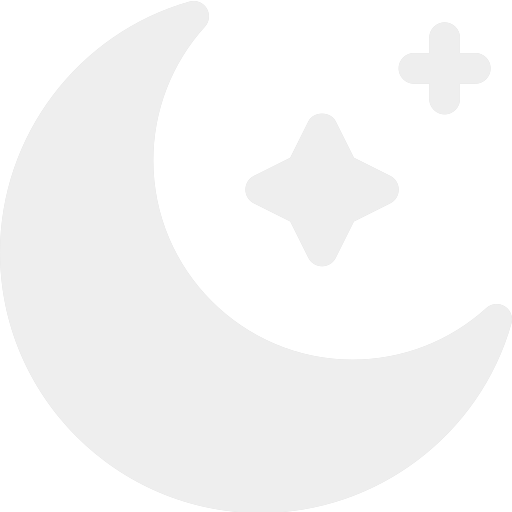
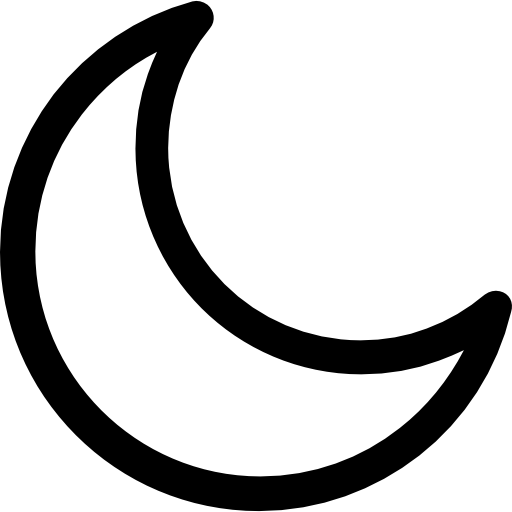
refactor: [Client] Implement dark mode context (#4)

Changed region(s): [[0.0, 0.0, 1.0, 1.0]]

diff --git a/frontend/src/Styles/Pages/LoginPage/_loginPage.module.scss b/frontend/src/Styles/Pages/LoginPage/_loginPage.module.scss
@@ -1,4 +1,4 @@
-@import "../_variable.module";
+@import "../../variable.module";
 
 .background {
   display: flex;
@@ -11,7 +11,8 @@
   min-width: 1080px;
 
   background-color: var(--background-color);
-  background-image: $background-image;
+
+  // background-image: url("../../../Assets/Image/b.png");
   background-size: 100% 100%;
   background-repeat: no-repeat;
 
@@ -28,6 +29,8 @@
 
   .container {
     display: flex;
+    flex-direction: var(--flex-direction);
+
     justify-content: center;
     align-items: center;
 
@@ -40,17 +43,18 @@
       display: flex;
       flex-direction: column;
       justify-content: center;
+      align-items: center;
 
       width: 500px;
       height: 400px;
 
       & .title {
-        font-family: $main-font;
+        font-family: $logo-font;
         font-size: 65px;
 
-        padding: 18px;
+        padding: 5px;
 
-        background: -webkit-linear-gradient(var(--gradient-first), var(--gradient-end));
+        background: -webkit-linear-gradient($gradient-first, $gradient-end);
         -webkit-background-clip: text;
         -webkit-text-fill-color: transparent;
       }
@@ -60,7 +64,6 @@
         font-size: 20px;
 
         padding-left: 23px;
-        margin-bottom: 50px;
 
         color: var(--font-color);
       }

diff --git a/frontend/src/Pages/LoginPage.tsx b/frontend/src/Pages/LoginPage.tsx
@@ -1,21 +1,18 @@
-import styles from "../Styles/Pages/_loginPage.module.scss";
-import variable from "../Styles/_variable.module.scss";
 import LoginForm from "../Components/LoginPage/LoginForm";
+import styles from "../Styles/Pages/LoginPage/_loginPage.module.scss";
 import sunIcon from "../Assets/Image/sun.png";
 import moonIcon from "../Assets/Image/moon.png";
 import { useState } from "react";
+import { useTheme } from "../Contexts/DarkModeContext";
 
 const LoginPage = () => {
-  const [mode, setMode] = useState<boolean>(false);
+  const { isDarkMode, toggleTheme } = useTheme();
 
-  const changeMode = () => {
-    setMode(!mode);
   };
 
   return (
-    <div className={mode ? `${variable.dark} ${styles.background}` : `${styles.background}`}>
-      <img src={mode ? moonIcon : sunIcon} onClick={changeMode} className={styles.mode} />
-      <div className={styles.container}>
+    <div className={isDarkMode ? `${styles.dark} ${styles.background}` : `${styles.background}`}>
+      <img src={isDarkMode ? sunIcon : moonIcon} onClick={toggleTheme} className={styles.mode} />
         <div className={styles.logo_container}>
           <div className={styles.title}>
             <span>CHECKPASS</span>

diff --git a/frontend/src/Styles/_variable.module.scss b/frontend/src/Styles/_variable.module.scss
@@ -8,9 +8,17 @@
   --main-color: #3478f6;
 
   --border-color: #dddfe2;
+  --font-color: black;
 
-  --gradient-first: #015eea;
-  --gradient-end: #00c0fa;
+  --form-font-color: #242424;
+
+  --form-width: 450px;
+  --form-height: 350px;
+  --input-width: 350px;
+
+  --darkmode-icon: url("../../../Assets/Image/moon.png");
+
+  --flex-direction: row;
 }
 
 .dark {
@@ -20,22 +28,25 @@
   --shadow-color: rgba(0, 0, 0, 0.1);
   --main-color: #3478f6;
   --border-color: rgb(56, 56, 56);
-  --font-color: #d2d2d2;
 
-  --gradient-first: #015eea;
-  --gradient-end: #00c0fa;
+  --form-font-color: #d2d2d2;
+  --font-color: #fff;
+
+  --darkmode-icon: url("../../Assets/Image/sun.png");
+}
+
 }
 
 /* font color */
+
+$gradient-first: #015eea;
+$gradient-end: #00c0fa;
 
 $font-white: white;
 $font-gray: #7b7b7b;
 
 /* font */
-$main-font: "AppleTea-z8R1a";
-
-/* image */
-$background-image: url("../../Assets/Image/loginPage-background.png");
+$logo-font: "AppleTea-z8R1a";
 
 @font-face {
   font-family: "AppleTea-z8R1a";

diff --git a/frontend/src/Contexts/DarkModeContext.tsx b/frontend/src/Contexts/DarkModeContext.tsx
@@ -1,0 +1,31 @@
+import { createContext, useContext, useState } from "react";
+
+interface Theme {
+  isDarkMode: boolean;
+  toggleTheme: () => void;
+}
+
+interface ModeProviderProps {
+  children: React.ReactNode;
+}
+
+const initialMode: Theme = {
+  isDarkMode: false,
+  toggleTheme: () => {},
+};
+
+const DarkModeContext = createContext<Theme>(initialMode);
+
+export const useTheme = () => {
+  return useContext(DarkModeContext);
+};
+
+export const DarkModeProvider: React.FC<ModeProviderProps> = ({ children }) => {
+  const [isDarkMode, setIsDarkMode] = useState(false);
+
+  const toggleTheme = () => {
+    setIsDarkMode((mode) => !mode);
+  };
+
+  return <DarkModeContext.Provider value={{ isDarkMode, toggleTheme }}>{children}</DarkModeContext.Provider>;
+};

diff --git a/frontend/src/App.tsx b/frontend/src/App.tsx
@@ -1,11 +1,17 @@
 import "./App.module.scss";
+import { DarkModeProvider } from "./Contexts/DarkModeContext";
 import LoginPage from "./Pages/LoginPage";
+import { BrowserRouter, Routes, Route } from "react-router-dom";
 
 const App = () => {
   return (
-    <div>
-      <LoginPage />
-    </div>
+    <BrowserRouter>
+      <DarkModeProvider>
+        <Routes>
+          <Route path="/" element={<LoginPage />} />
+        </Routes>
+      </DarkModeProvider>
+    </BrowserRouter>
   );
 };
 

diff --git a/frontend/src/App.module.scss b/frontend/src/App.module.scss
@@ -1,5 +1,3 @@
-// App scss
-
 body {
   margin: 0;
 }
